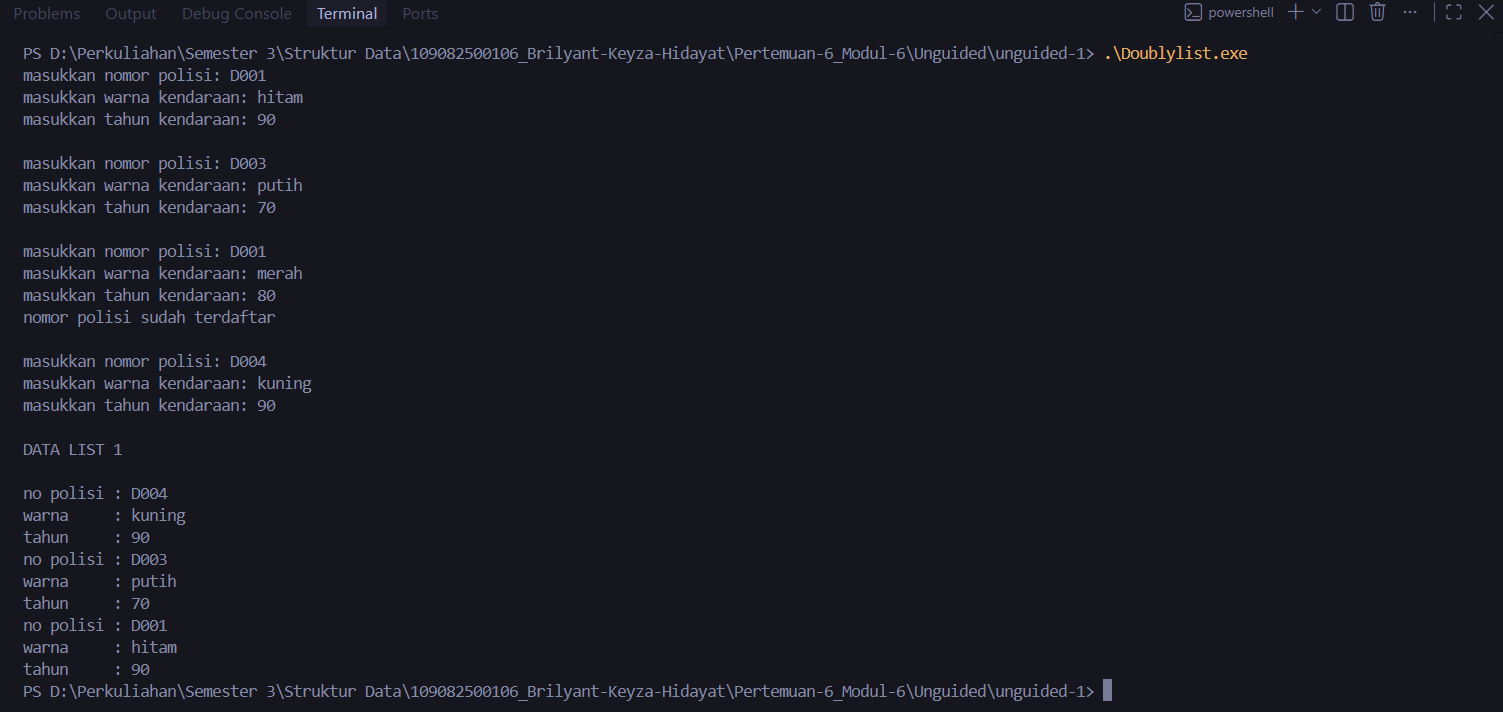
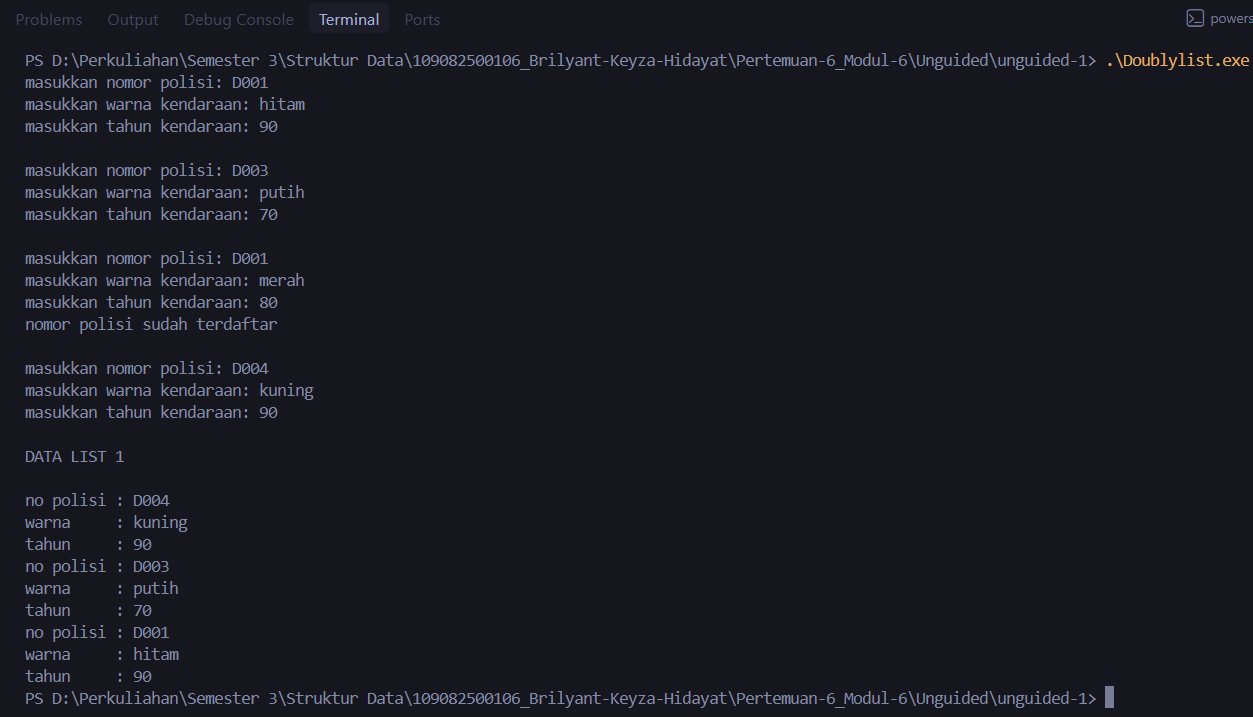
update laprak modul 6

diff --git a/Pertemuan-6_Modul-6/Laprak-Strukdat-Modul-6.md b/Pertemuan-6_Modul-6/Laprak-Strukdat-Modul-6.md
@@ -468,7 +468,7 @@ int main() {
 ### Output Unguided 1 :
 
 ##### Output 1
-![Screenshot Output Unguided 1_1](https://github.com/BrilyantKeyza/109082500106_Brilyant-Keyza-Hidayat_Struktur-Data/blob/main/Pertemuan-5_Modul-5/Output/output-1.png?raw=true)
+![Screenshot Output Unguided 1_1]()
 
 Program ini berfungsi untuk mencatat dan mengelola data kendaraan menggunakan struktur Doubly Linked List yang mengimplementasikan dua arah penunjuk elemen, yaitu pointer `next` dan `prev`, serta menggunakan penanda `First` dan `Last` pada list utama. Secara cara kerjanya, program akan mengalokasikan memori untuk data baru dan memvalidasi input agar tidak ada data nomor polisi yang duplikat. Terkait penerapan operasinya, program ini secara khusus mengeksekusi operasi `insertFirst` untuk menyisipkan data ke posisi paling awal dengan cara merangkai pointer `next` dan `prev` secara dinamis, meskipun deklarasi fungsi `insertLast` juga disiapkan di dalam strukturnya. Pada tahap akhir, program memanggil operasi penelusuran `printInfo` yang bergerak maju menggunakan pointer `next` untuk mencetak seluruh daftar kendaraan dari urutan input terbaru hingga yang terlama.
 
